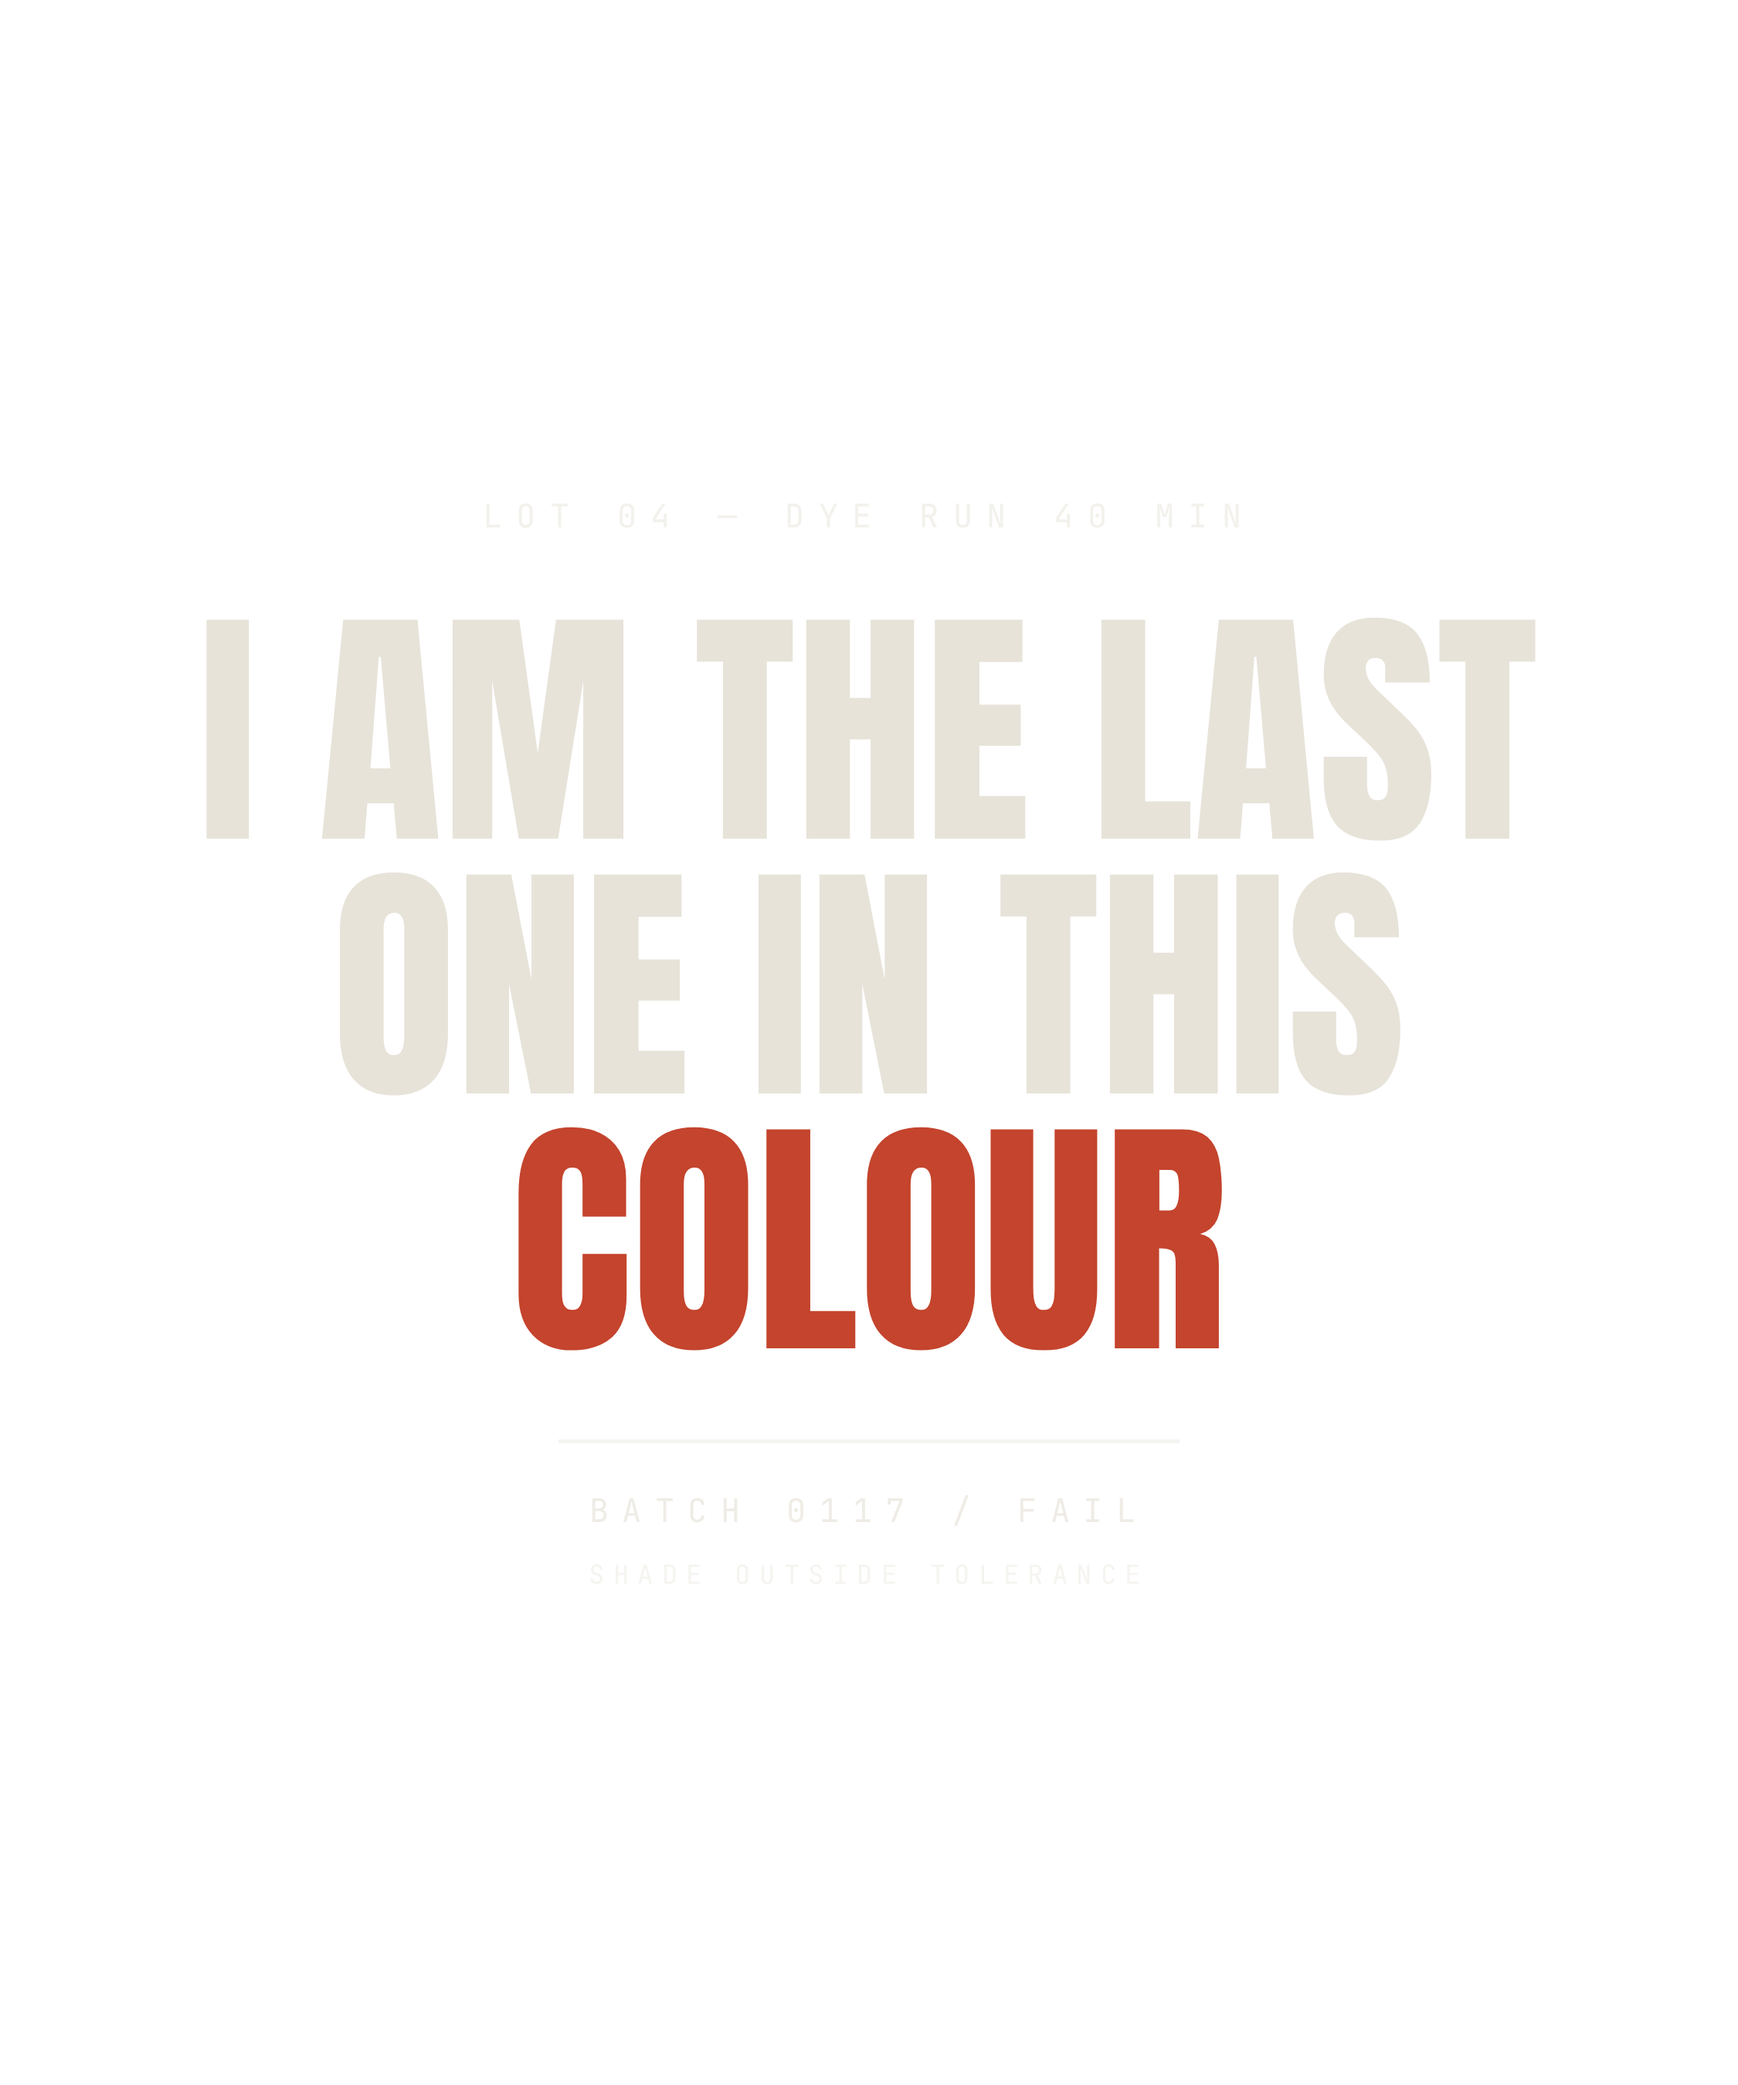
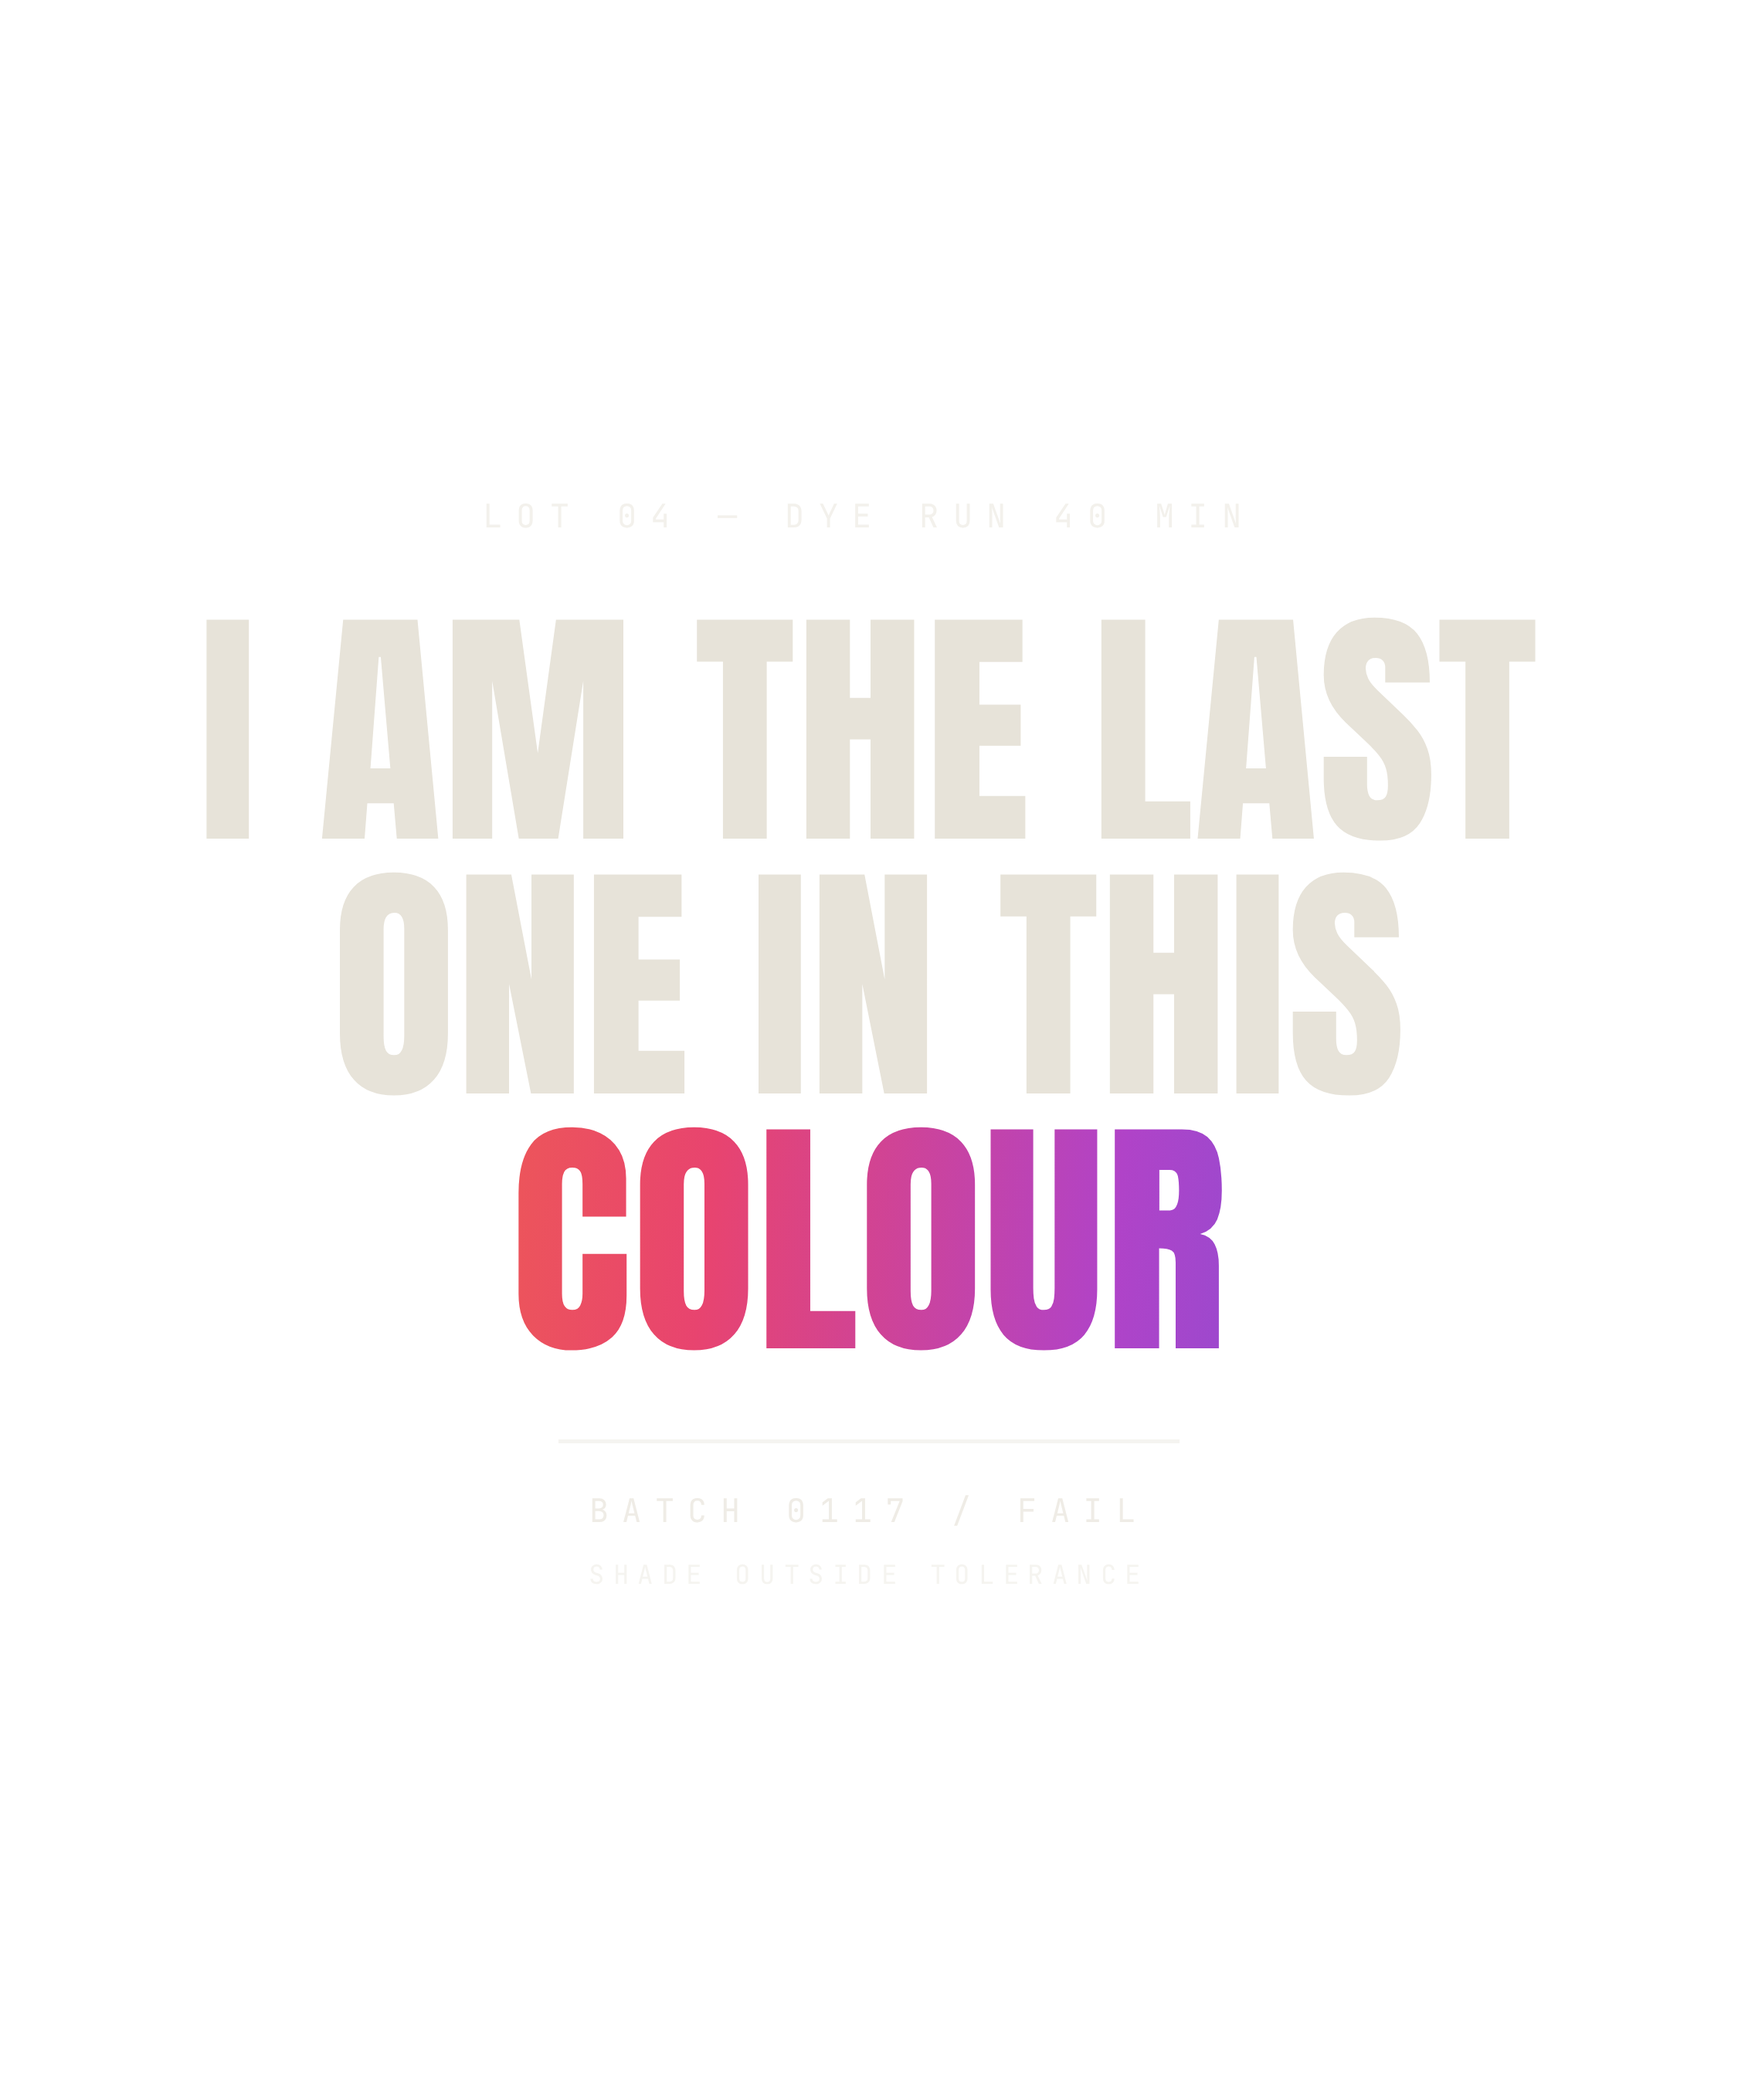
Put the sky in the turn-word, and let the site move
The accent word was flat oxide red. It now carries a gradient running
ember through magenta into violet — the same light the site sits under.
DTF prints full colour, so it goes onto the garment as drawn.

The sky drifts and scales over 78 seconds, the star field wanders slowly
across and breathes between two opacities, and the hero line's bloom
swells and fades on an 11 second cycle. All of it is slow enough to read
as weather rather than as a website effect, and all of it stops under
prefers-reduced-motion.

Verified at 1440: five animations running, no console errors, no
horizontal scroll.

Claude-Session: https://claude.ai/code/session_014n7V4tNJoJrd6kLMQ3qyxF

Changed region(s): [[0.28, 0.5289, 0.7156, 0.6533]]

diff --git a/styles.css b/styles.css
@@ -59,7 +59,8 @@ p{ margin:0; }
    body through the middle, an ember low right, all sitting under a
    vignette so the edges fall away. Fixed, so the page drifts through it. */
 .sky{
-  position:fixed; inset:0; z-index:0; pointer-events:none;
+  position:fixed; inset:-12%; z-index:0; pointer-events:none;
+  animation:drift 78s ease-in-out infinite alternate;
   background:
     radial-gradient(46% 34% at 14% 6%,   rgba(70,120,220,.30), transparent 66%),
     radial-gradient(40% 30% at 82% 22%,  rgba(150,72,190,.20), transparent 68%),
@@ -74,6 +75,30 @@ p{ margin:0; }
   opacity:.5;
   mask-image:radial-gradient(90% 70% at 50% 40%, #000 20%, transparent 88%);
   -webkit-mask-image:radial-gradient(90% 70% at 50% 40%, #000 20%, transparent 88%);
+  animation:twinkle 9s ease-in-out infinite alternate,
+            wander 140s linear infinite;
+}
+
+/* Slow enough to read as weather rather than as an effect. */
+@keyframes drift{
+  0%   { transform:translate3d(0,0,0) scale(1); }
+  50%  { transform:translate3d(1.6%,-1.1%,0) scale(1.045); }
+  100% { transform:translate3d(-1.2%,1.4%,0) scale(1.02); }
+}
+@keyframes twinkle{
+  0%   { opacity:.36; }
+  100% { opacity:.62; }
+}
+@keyframes wander{
+  from { background-position:0 0; }
+  to   { background-position:1400px 700px; }
+}
+@keyframes bloom{
+  0%   { text-shadow:0 0 60px rgba(233,230,222,.12), 0 0 150px rgba(120,130,200,.08); }
+  100% { text-shadow:0 0 92px rgba(233,230,222,.22), 0 0 200px rgba(140,120,220,.16); }
+}
+@media (prefers-reduced-motion:reduce){
+  .sky, .sky::before, .line{ animation:none; }
 }
 .sky::after{
   content:''; position:absolute; inset:0;
@@ -139,6 +164,7 @@ nav, main, header, footer, .drawer, .drawer-scrim{ position:relative; z-index:1;
 
 .line{
   text-shadow:0 0 70px rgba(233,230,222,.16), 0 0 160px rgba(120,130,200,.10);
+  animation:bloom 11s ease-in-out infinite alternate;
   font-family:var(--f-disp); font-weight:200;
   font-size:clamp(36px, 7vw, 92px);
   line-height:1.03; letter-spacing:.005em;

diff --git a/artwork/README.md b/artwork/README.md
@@ -13,7 +13,9 @@ One file per piece. Transparent PNG, rendered to each blank's exact print region
 ## The design
 
 Heavy condensed caps filling the chest, set on a full line so the words breathe.
-**The last word in oxide red** — the word the whole sentence turns on.
+**The word the sentence turns on is set in the sky** — a gradient running ember
+through magenta into violet, the same light the site sits under. DTF prints full
+colour, so the gradient goes onto the garment as drawn.
 
 Three tiers of small mono text carry the record, and each piece gets its own
 reason for failing:
